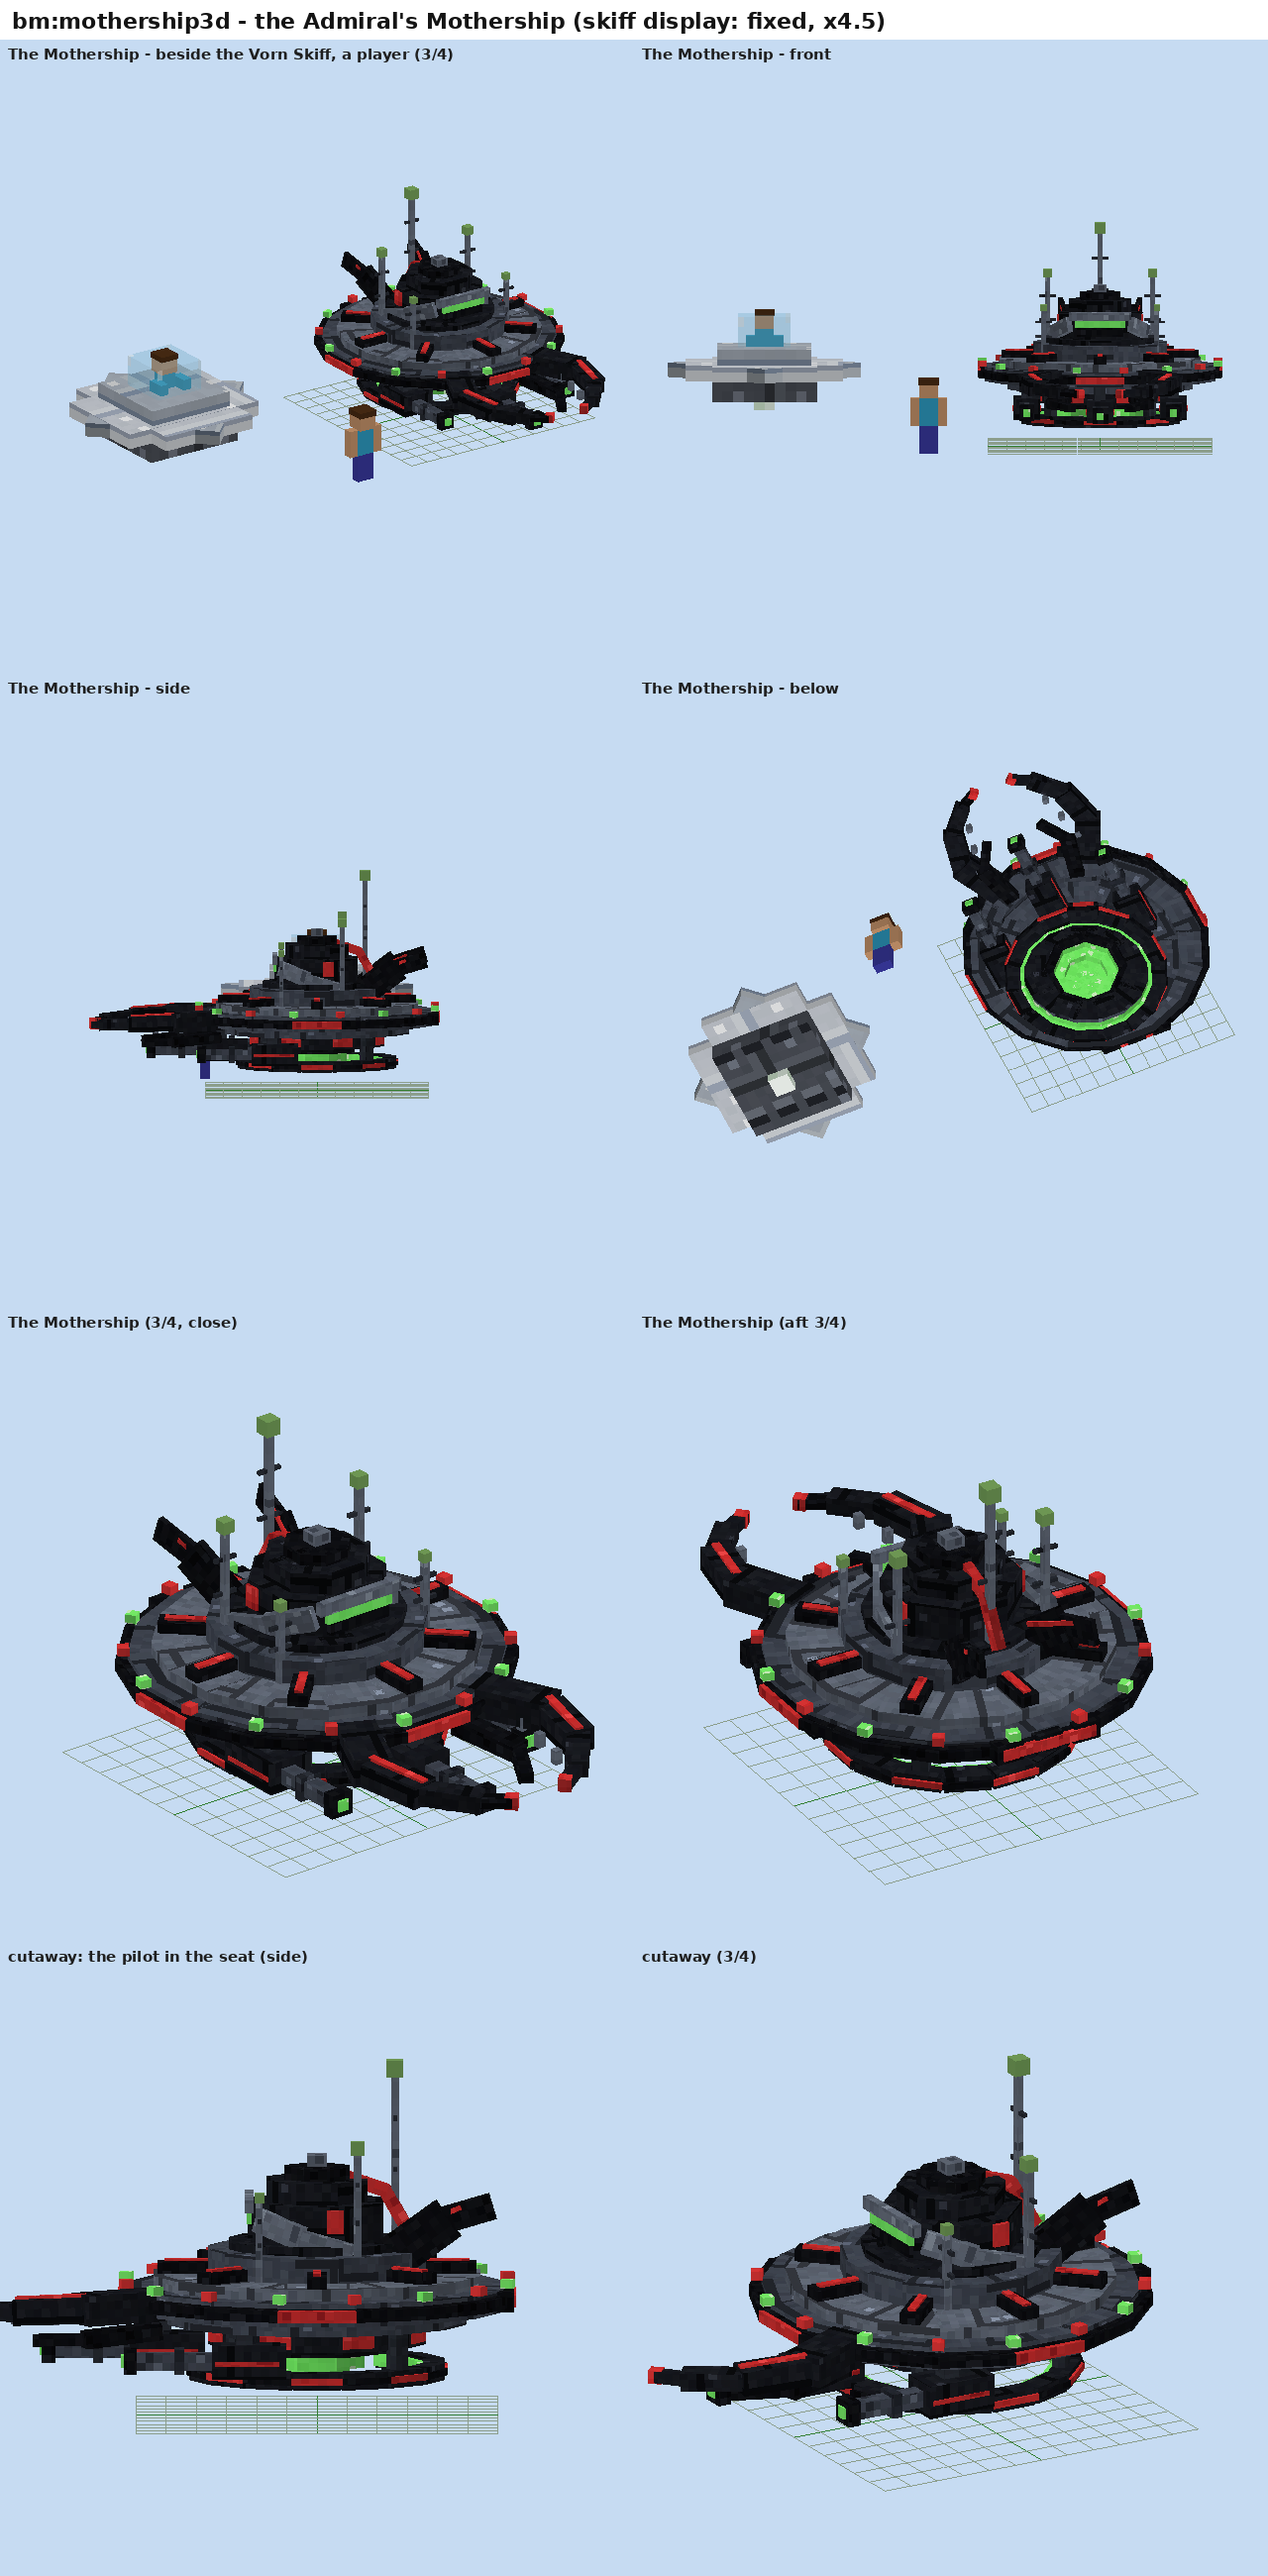
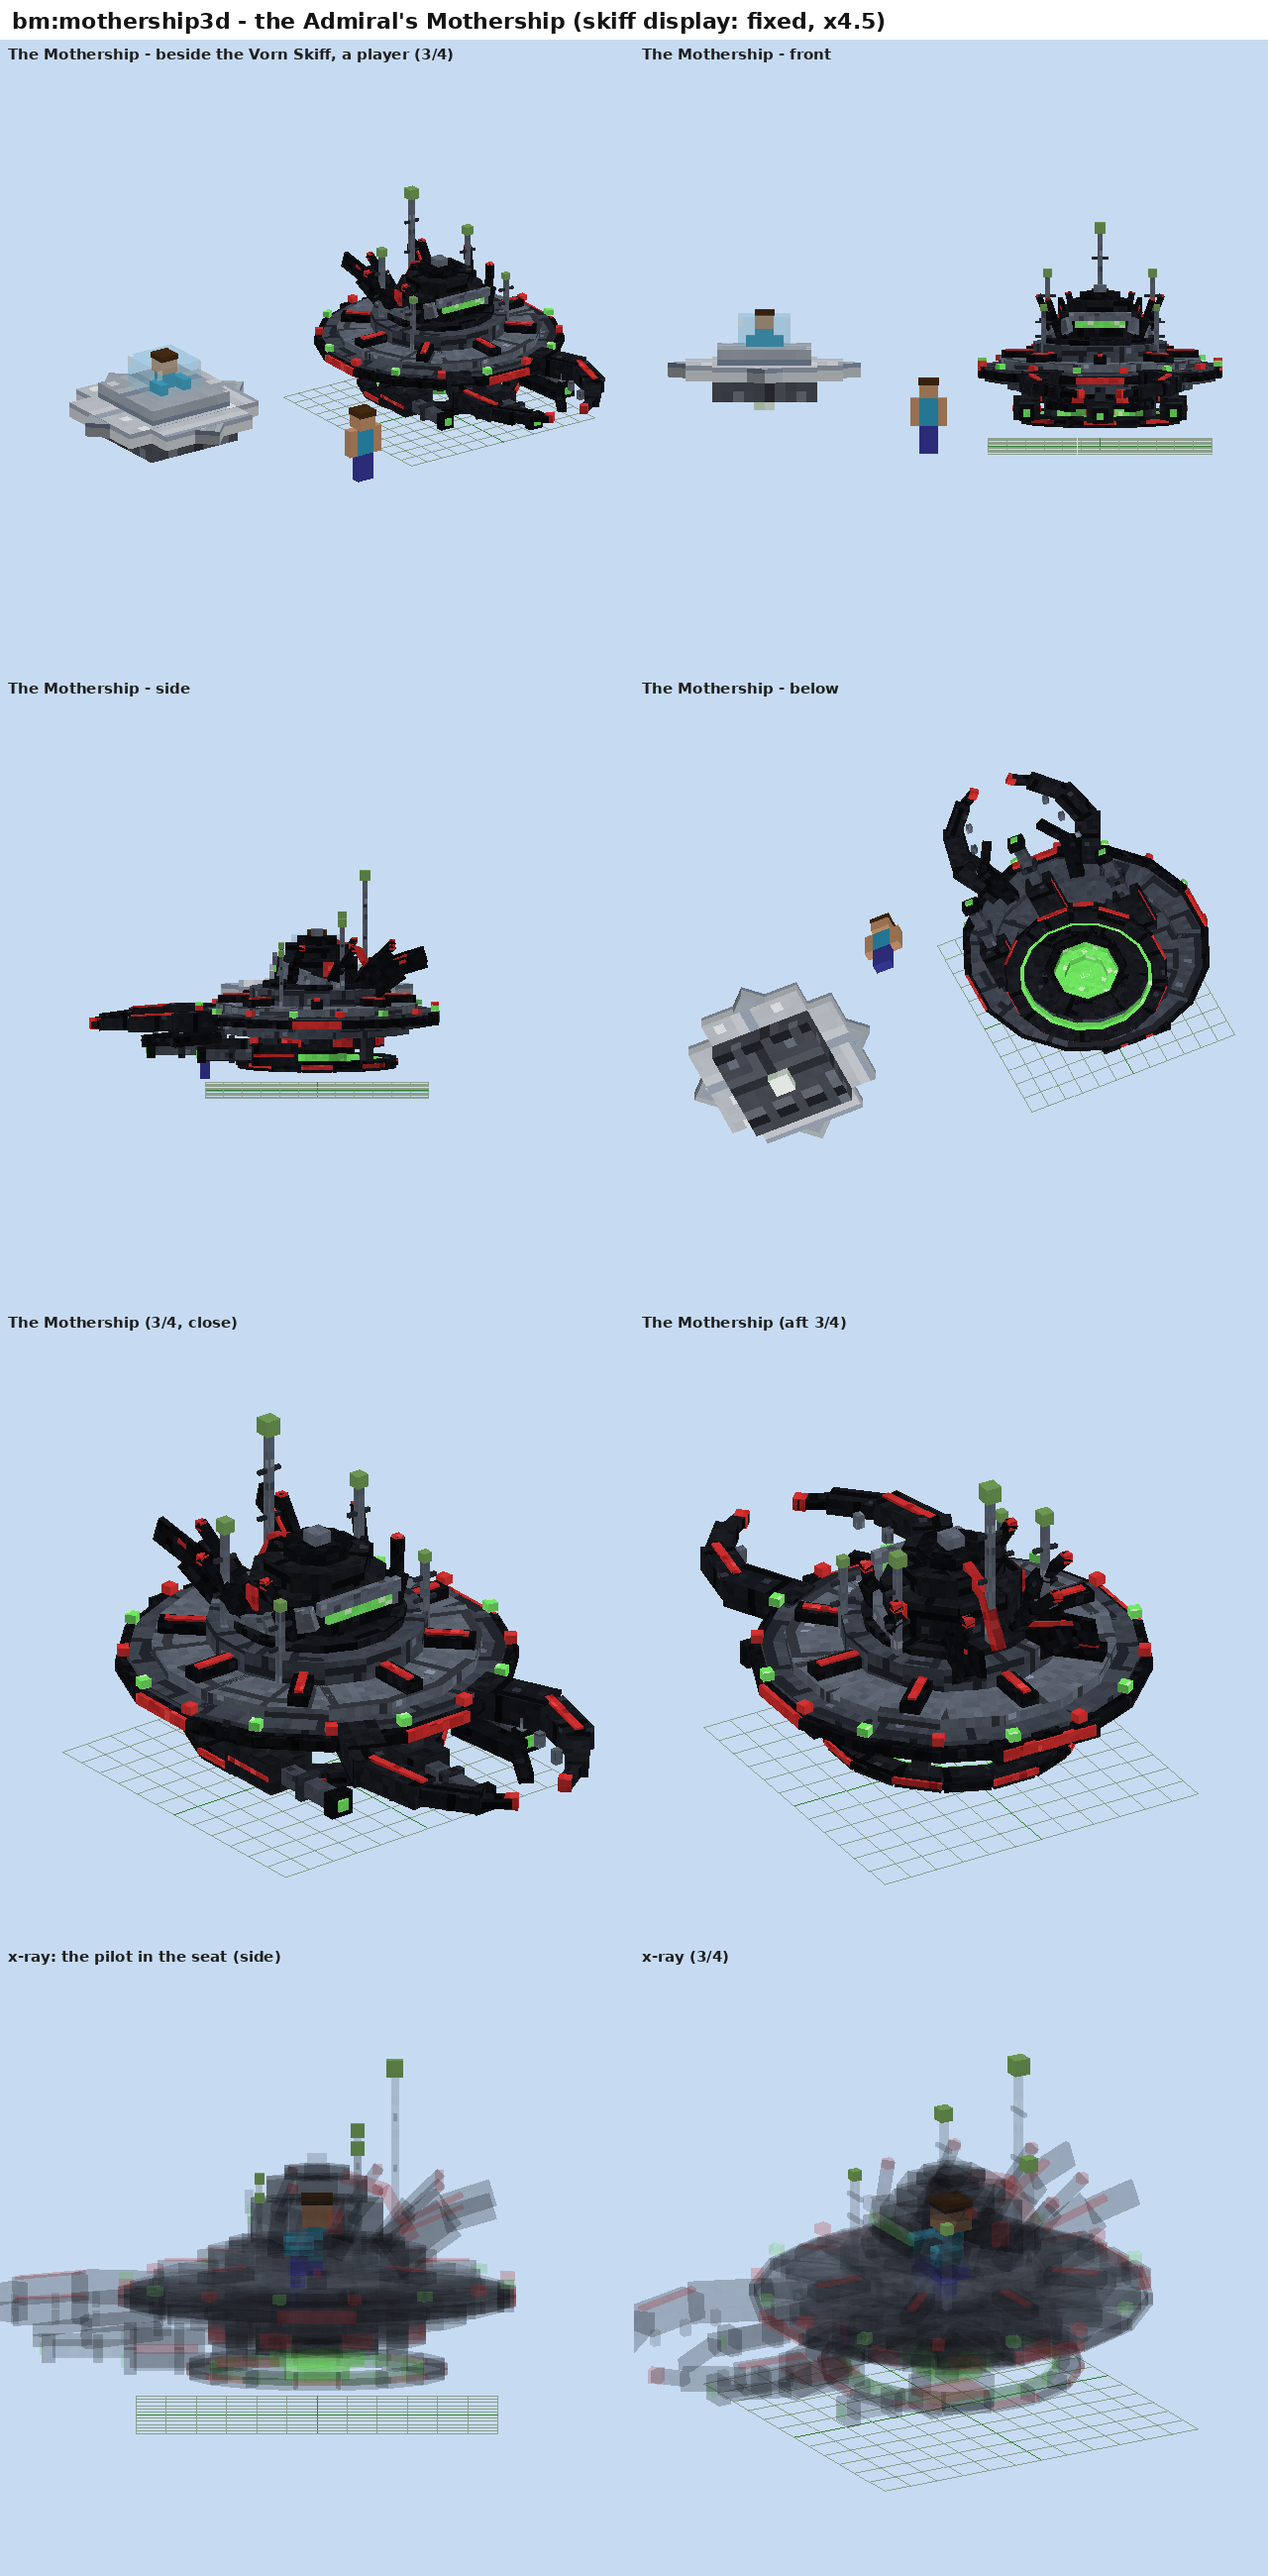
Agents' in-progress art
Claude-Session: https://claude.ai/code/session_01XWL2YCZPbHFbZZugTCggqD

diff --git a/bm_build/armada_art.py b/bm_build/armada_art.py
@@ -24,6 +24,12 @@ FLAT ICONS (16 x 16, the pack's vanilla look - through R.ICONS, so vanilla.proce
   starforged_helmet / _chestplate / _leggings / _boots   the Warplate pieces (vanilla's netherite shapes) reforged: gunmetal
                  plate, gold-orange seams, star-orange cores glowing (the helm's eye slit, the breast's core, the belt's
                  buckle and knees, the thrusters' nozzles)
+  mothership_key the Mothership Key: the Vorn Skiff Key's shape grown menacing - its bow the Admiral's craft (a dark saucer, an
+                 armoured dome with a green visor slit, a froglight mast, red hive stripes, running lights, mandibles hooked down)
+                 on a dark shank with a red seam and heavy teeth
+  mothership_module   the Admiral's Command Module (the upgrade a Skiff Key takes): a chunky gunmetal core under an armoured
+                 cap, a green visor slit, red hive stripes, a green core light, bolts, two cables trailing, a plug sparking - in
+                 the family of the six skiff parts
   singularity_launcher (+ _pull0/_pull1/_pull2/_charged)   a crossbow (vanilla's sprites): its stock gunmetal, its limbs
                  violet, its string a green energy filament; loaded, a violet singularity - a small hungry star - on the bolt.
                  Drawn as vanilla's crossbow is (parent minecraft:item/crossbow) and chosen as vanilla's item definition
@@ -40,6 +46,13 @@ FLAT ICONS (16 x 16, the pack's vanilla look - through R.ICONS, so vanilla.proce
                  clamps holding it, two shards hanging by it
   vx_pylon_off   the same overloaded: the crystal dark and cracked, its tip broken off, the lights dead, smoke rising off it
                  (both item models only: an item_display shows them, context none)
+THE MOTHERSHIP (R.HATS, as phase32's ufo3d - display-entity scale through DISPLAY_3D_EXTRA):
+  mothership3d   the Admiral's own skiff hull, on the Vorn Skiff's display (fixed, x4.5; front north): a black-banded plated
+                 saucer twice the skiff's span, hive stripes and a ring of green and red running lights round its rim, armour
+                 ribs over the deck, an armoured dark cockpit with a green visor slit and a crown of swept-back spines, two
+                 great mandibles forward (teeth, red-hot tips), three Hive Cannon pods hung under the disc, a gravity ring and a
+                 green engine glow beneath, dorsal fins and red exhausts aft, antenna masts with froglight tips. The skiff's
+                 seat is kept (MS_SEAT): the pilot's legs in the upper hull, their head inside the cockpit.
 EQUIPMENT: bm:starforged (humanoid + humanoid_leggings): the netherite plate in gunmetal, its seams gold-orange, a star core
   glowing in the breast, the brow and the belt."""
 import math
@@ -955,6 +968,8 @@ def rp(R):
     import sys
     R.TEXTURE_MODS.append(sys.modules[__name__])
     R.ICONS.update(icons())
+    R.HATS['mothership3d'] = mothership()                                      # (as the Vorn Skiff's ufo3d: shown at display scale)
+    R.DISPLAY_3D_EXTRA = getattr(R, 'DISPLAY_3D_EXTRA', ()) + ('mothership3d',)
     def post(R2):
         for name, els in models().items():
             R2.wj(f'assets/bm/models/item/{name}.json', model_json(name, els))

diff --git a/bm_build/tools/preview/armada_items.py b/bm_build/tools/preview/armada_items.py
@@ -120,7 +120,7 @@ def _ms_pack():
     xt = {}                                                                     # (an x-ray copy: the hull's textures see-through)
     for k, v in tex.items():
         if v.startswith('bm:block/'):
-            im = Image.open(f'{ROOT}/assets/bm/textures/block/{k}.png').convert('RGBA'); im.putalpha(70)
+            im = Image.open(f'{ROOT}/assets/bm/textures/block/{k}.png').convert('RGBA'); im.putalpha(34)
             im.save(f'{ROOT}/assets/bm/textures/block/xr_{k}.png'); xt[k] = f'bm:block/xr_{k}'
         else: xt[k] = v
     xt['particle'] = 'bm:block/xr_am_plate'
